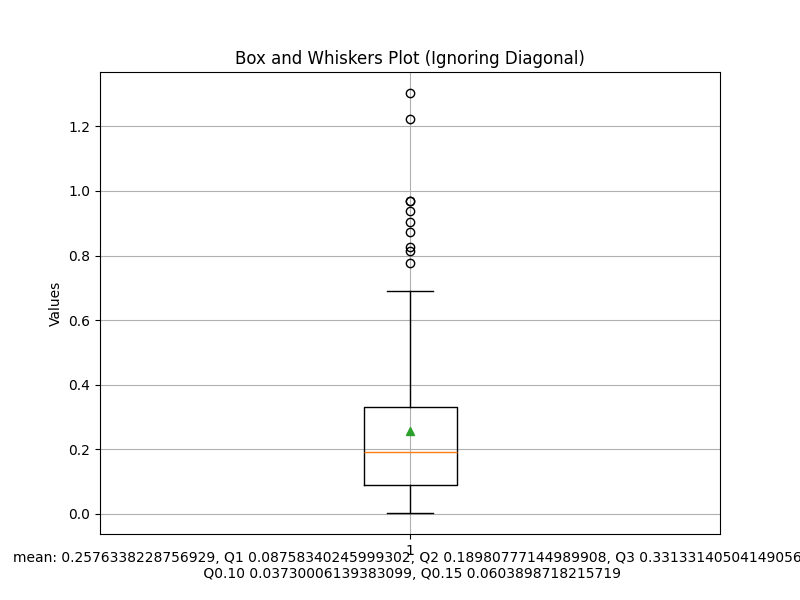
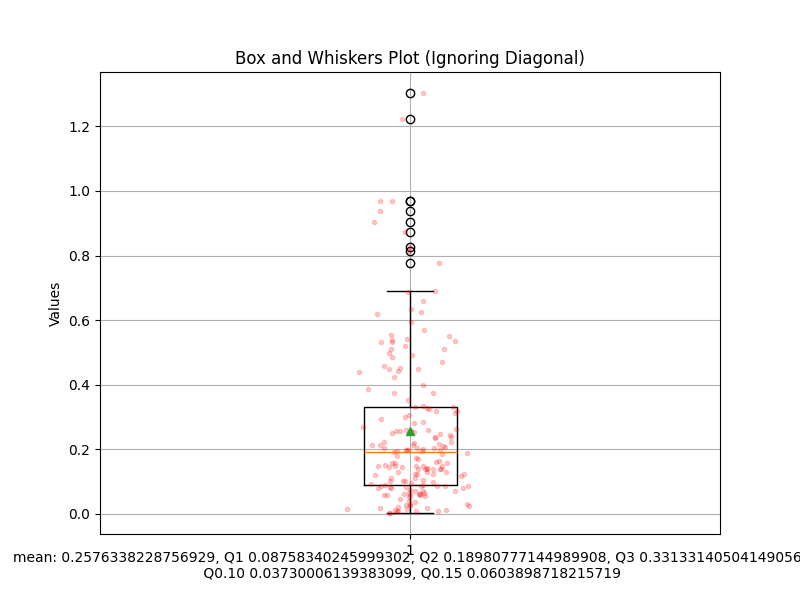
box and whiskers improve

diff --git a/distribution_comparison.py b/distribution_comparison.py
@@ -4,13 +4,14 @@ import numpy as np
 from scipy.stats import entropy
 import pandas as pd
 import warnings
-from plots import get_colors, plot_distributions, plot_matrix, plot_scores_by_length, boxwhiskers_from_kl_matrix
+from plots import get_colors, plot_distributions, plot_matrix, plot_scores_by_length, boxwhiskers_from_kl_matrix, plot_by_length, boxwhiskers_from_kl_matrices
 
 # Suppress the FutureWarning and the runtime one
 warnings.simplefilter(action='ignore', category=FutureWarning)
 warnings.simplefilter(action='ignore', category=RuntimeWarning)
 
 figures_folder = 'figures/'
+length = False
 
 def get_mask_distribution(data):
     
@@ -183,47 +184,57 @@ def get_distribution_comparison(leaks_file='leak_types.txt'):
             # Get mask distributions
             mask_df = get_mask_distribution(data)
 
+        # Only execute if score by length is needed
         # Define the path to the txt file
-        leak_scores_and_length_file = 'leaks\\' + leak + '\password_score_and_length.txt'
-        score_length_df = get_score_and_length(leak_scores_and_length_file)
+        if length:
+            leak_scores_and_length_file = 'leaks\\' + leak + '\password_score_and_length.txt'
+            score_length_df = get_score_and_length(leak_scores_and_length_file)
+            score_length_dataframes.append(score_length_df)
 
         # Get score counts, probabilities, scores and scores by length
         counts.append(count)
         score_distributions.append(probability)
         mask_dataframes.append(mask_df)
-        score_length_dataframes.append(score_length_df)
     
     # Get the kl matrix for score
     kl_df_score = compute_kl_matrix(score_distributions, leak_names)
     kl_df_score.to_csv('./leaks/kl_df_score.csv')
 
-    # # Unused. Useful to plot by length scores and masks
-    # # Get kl matrix for mask and length
-    # kl_dfs_mask = compute_kl_matrix_dfs(mask_dataframes, leak_names, 'mask')
-
-    # # Get kl matrix for score and length, format np to eliminate np.float values
-    # kl_dfs_score_length = compute_kl_matrix_dfs(score_length_dataframes, leak_names, 'length')
+    # Unused. Useful to plot by length scores and masks
+    if length:
+        # Get kl matrix for mask and length
+        kl_dfs_mask = compute_kl_matrix_dfs(mask_dataframes, leak_names, 'mask')
+        # Get kl matrix for score and length, format np to eliminate np.float values
+        kl_dfs_score_length = compute_kl_matrix_dfs(score_length_dataframes, leak_names, 'length')
+        # Plot matrices
+        plot_by_length(leak_names, kl_dfs_mask, kl_dfs_score_length, figures_folder = 'figures/')
+        # Plot and save the score by length distribution
+        plot_scores_by_length(score_length_dataframes, leak_names, colors).savefig(figures_folder + 'scores_length_distribution.png')
 
     # Get the colors for the plots
     colors = get_colors(leak_types)
 
     # Plot and save the score distributions
     plot_distributions(score_distributions, leak_names, colors).savefig(figures_folder + 'scores_distribution.png')
-    # Plot and save the score by length distribution
-    plot_scores_by_length(score_length_dataframes, leak_names, colors).savefig(figures_folder + 'scores_length_distribution.png')
     # Plot and save the kl score matrix
     plot_matrix(kl_df_score.values, leak_names, 'coolwarm', vmin=0, vmax=1).savefig(figures_folder + 'scores_kl_matrix.png')
     # Get box and whiskers plot for values in the score kl matrix
     boxwhiskers_from_kl_matrix(kl_df_score).savefig(figures_folder + 'score_boxwhiskers_klmatrix.png')
 
+    kl_matrices_categories = []
     # Get stats for each category
     for category in leak_categories:
         # Get the leaks in the category
         leaks_in_category = [name for name, type in leak_types if type == category]
         # Get a dataframe with the kl values of the category
         category_df = kl_df_score[leaks_in_category].loc[leaks_in_category]
+        # Add matrix to category matrices
+        kl_matrices_categories.append(category_df)
         # Plot category matrix
         plot_matrix(category_df.values, leaks_in_category, 'coolwarm', vmin=0, vmax=1).savefig(f'{figures_folder}/c_{category}_scores_kl_matrix.png')
+
+    # Plot box and whiskers for each category
+    boxwhiskers_from_kl_matrices(kl_matrices_categories, leak_categories).savefig(figures_folder + 'categories_boxwhiskers_klmatrices.png')
 
 
 

diff --git a/plots.py b/plots.py
@@ -198,6 +198,10 @@ def boxwhiskers_from_kl_matrix(kl_matrix):
     plt.ylabel('Values')
     plt.grid(True)
 
+    # Plot points for visualization
+    x = np.random.normal(1, 0.04, size=len(non_diag_values))
+    plt.plot(x, non_diag_values, 'r.', alpha=0.2)
+
     # Show mean and quantiles
     q010 = np.quantile(non_diag_values, .10)
     q015 = np.quantile(non_diag_values, .15)
@@ -205,5 +209,29 @@ def boxwhiskers_from_kl_matrix(kl_matrix):
     q2 = np.quantile(non_diag_values, .50)
     q3 = np.quantile(non_diag_values, .75)
     plt.text(1, -0.2, f'mean: {np.mean(non_diag_values)}, Q1 {q1}, Q2 {q2}, Q3 {q3} \n Q0.10 {q010}, Q0.15 {q015}', horizontalalignment='center')
+    
+    return plt
+
+def boxwhiskers_from_kl_matrices(kl_matrices, labels):
+    # Get values without the main diagonal (as it is always o)
+    values = []
+    for matrix in kl_matrices:
+        non_diag_values = matrix.to_numpy()[~np.eye(matrix.shape[0], dtype=bool)]
+        values.append(non_diag_values)
+    
+
+    # Create boxplot
+    plt.figure(figsize=(8, 6))
+    plt.boxplot(values, showmeans='True')
+    plt.title('Box and Whiskers Plot (Ignoring Diagonal)')
+    plt.ylabel('Values')
+    plt.xticks(np.array([i for i in range(len(labels))]) + 1 , labels, rotation=45, ha='right', fontsize=8)
+    plt.grid(True)
+
+    # Plot points for visualization
+    for i in range(len(labels)):
+        y = values[i]
+        x = np.random.normal(1+i, 0.04, size=len(y))
+        plt.plot(x, y, 'r.', alpha=0.2)
     
     return plt
